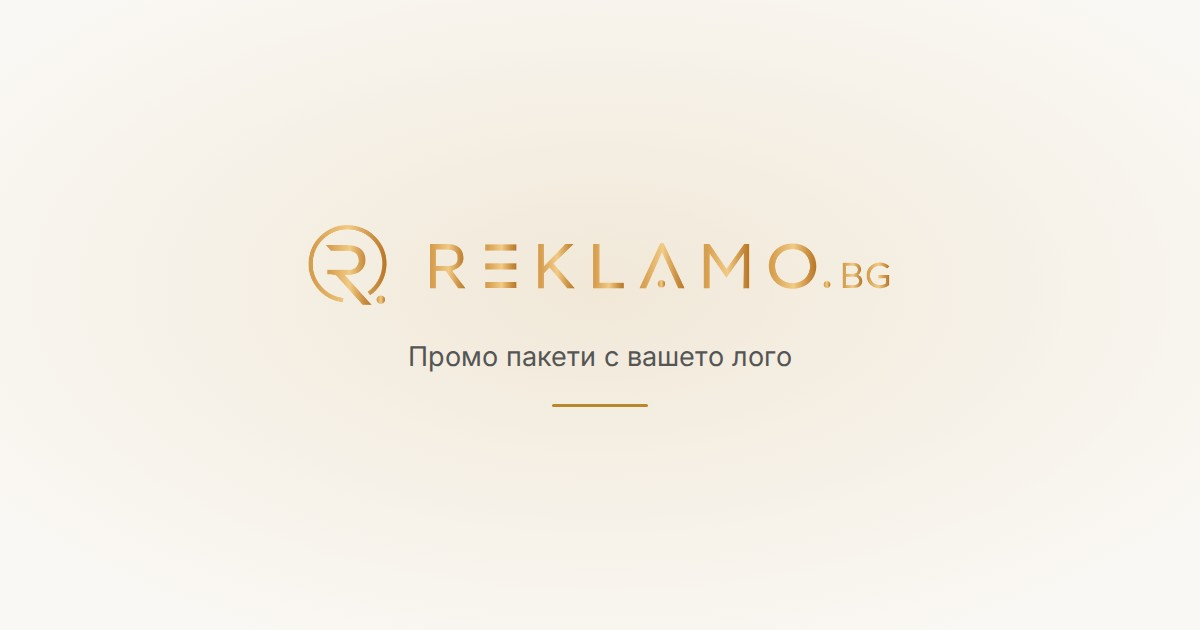
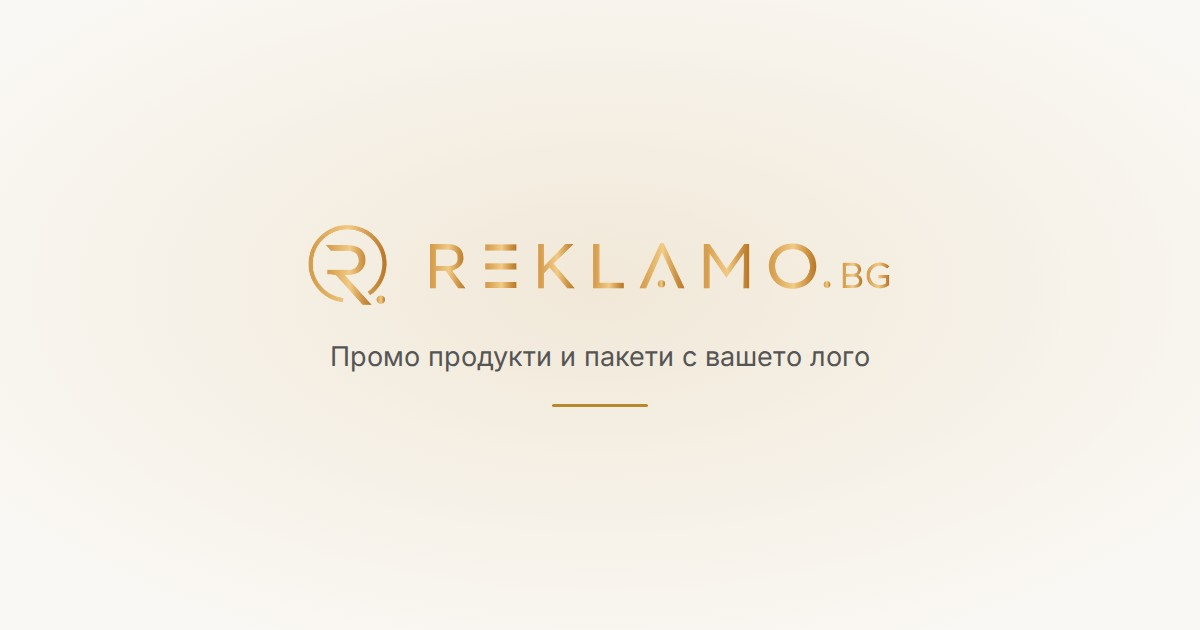
feat: the site tagline and the share image name products too
„Промо продукти и пакети с вашето лого“ for the site description, the share image and the seeded
email footer; each replaces only the old seeded value.

Changed region(s): [[0.2775, 0.5429, 0.74, 0.6032]]

diff --git a/scripts/render-brand-images.js b/scripts/render-brand-images.js
@@ -9,7 +9,7 @@ const fs = require( 'fs' );
 const path = require( 'path' );
 
 const theme = path.join( __dirname, '../wp-content/themes/reklamo' );
-const tagline = 'Промо пакети с вашето лого';
+const tagline = 'Промо продукти и пакети с вашето лого';
 const face = ( weight, subset ) =>
 	`@font-face{font-family:Inter;font-style:normal;font-weight:${ weight };src:url('fonts/Inter-${ weight }-${ subset }.woff2') format('woff2')}`;
 

diff --git a/docs/PLAN.md b/docs/PLAN.md
@@ -723,7 +723,7 @@ shows an invitation to ask for an offer until the owner ticks the category on pr
 
 `scripts/deploy.sh` (workstation) → `scripts/host/{bootstrap,install,update,check}.sh` (server). `install.sh` is idempotent and converges an existing account with its `.env`; `update.sh` fetches, switches the checkout under maintenance mode, converges WordPress/WooCommerce to `versions.env` (database dump first, `wp core update --force`, `wp plugin install --force`, `update-db`, `wp wc update`), flushes and runs `check.sh`, and re-runs `seed.sh` only with `--seed`. `check.sh` drops a one-off PHP probe into `public_html`, fetches it over HTTP and compares web PHP with `PHP_BIN`, prints the applied `upload_max_filesize` and friends, fetches the theme's `style.css` through the symlink and confirms the private directory is not addressable.
 
-**Decision (2026-10-21): the hero names products, not packages only.** „Избери пакет. Изпрати логото.“ suggested the shop sold only packages and only with a logo. Now: eyebrow „Промо продукти и пакети с вашето лого“, „Избери продукт. / Лого или надпис. / Ние правим останалото.“ (the owner tried „Добави лого или надпис.“ first: too long, it broke the heading into five lines), and the first button „Разгледай продуктите“ → /produkti/. Pattern, seed (each old piece swapped only while unedited) and the live site (the same one-off). Still saying „пакети“ and worth the owner's look: the site tagline (`blogdescription`) and the share image's tagline.
+**Decision (2026-10-21): the hero names products, not packages only.** „Избери пакет. Изпрати логото.“ suggested the shop sold only packages and only with a logo. Now: eyebrow „Промо продукти и пакети с вашето лого“, „Избери продукт. / Лого или надпис. / Ние правим останалото.“ (the owner tried „Добави лого или надпис.“ first: too long, it broke the heading into five lines), and the first button „Разгледай продуктите“ → /produkti/. Pattern, seed (each old piece swapped only while unedited) and the live site (the same one-off). The site tagline (`blogdescription`), the share image's tagline (`render-brand-images.js`, `share.jpg` re-rendered) and the seeded email footer followed the same day as „Промо продукти и пакети с вашето лого“ (`opt_replace` over the old value; on the live site the email footer was already the owner's own and stays).
 
 **Decision (2026-10-21): the homepage quick-start band is gone.** „Започни своята поръчка“ with its package picker repeated what the request page, „Добави свой надпис“ and the product pages now do (owner). The pattern, its styles and its two tests are removed; the seed no longer builds it and removes the section holding `[reklamo_request_form compact="1"]` from a built homepage (parse_blocks, that top-level block only), and the live site got the same as a one-off. The shortcode and its compact form stay, harmless, for any page that still holds it.
 
